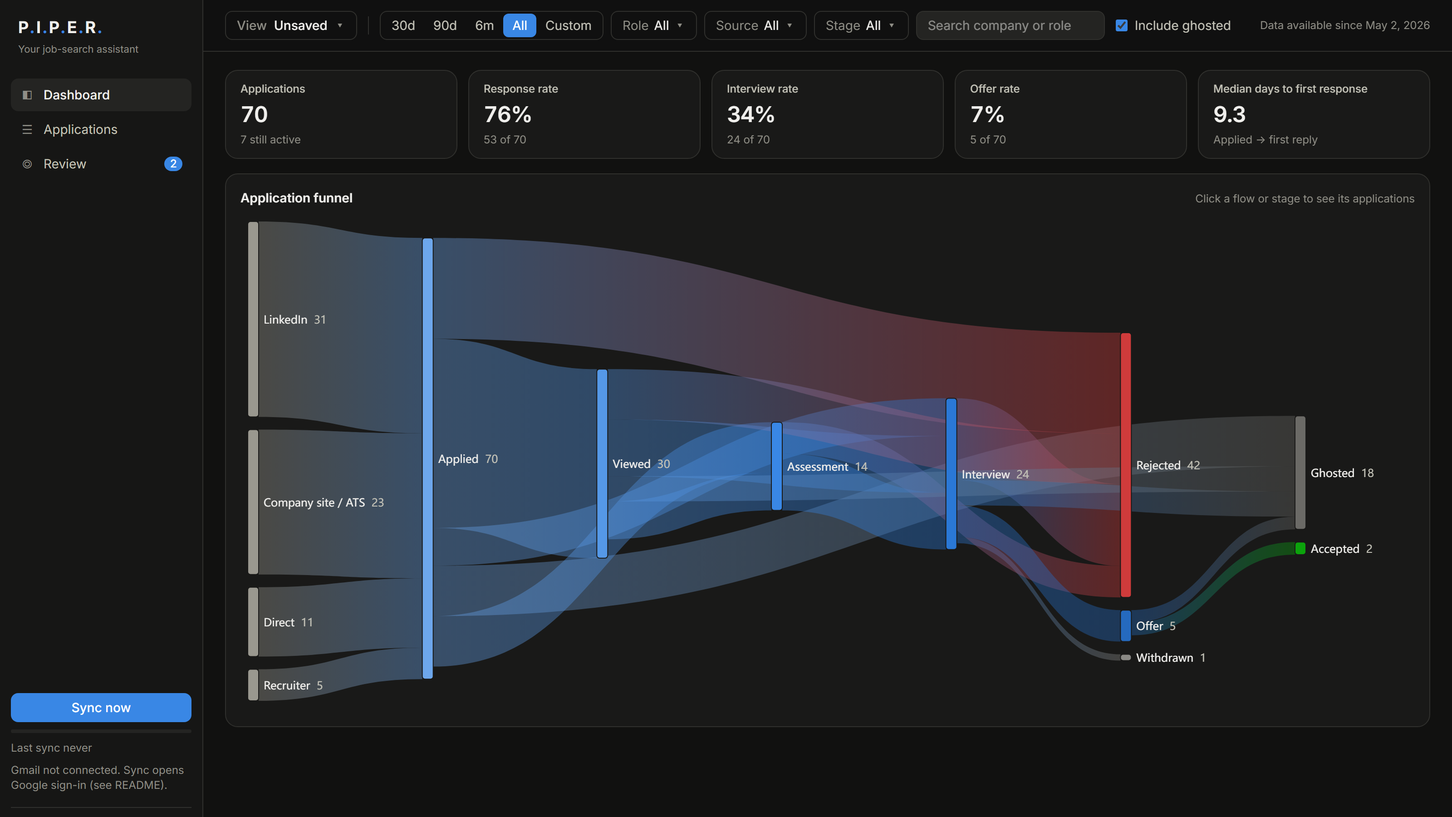
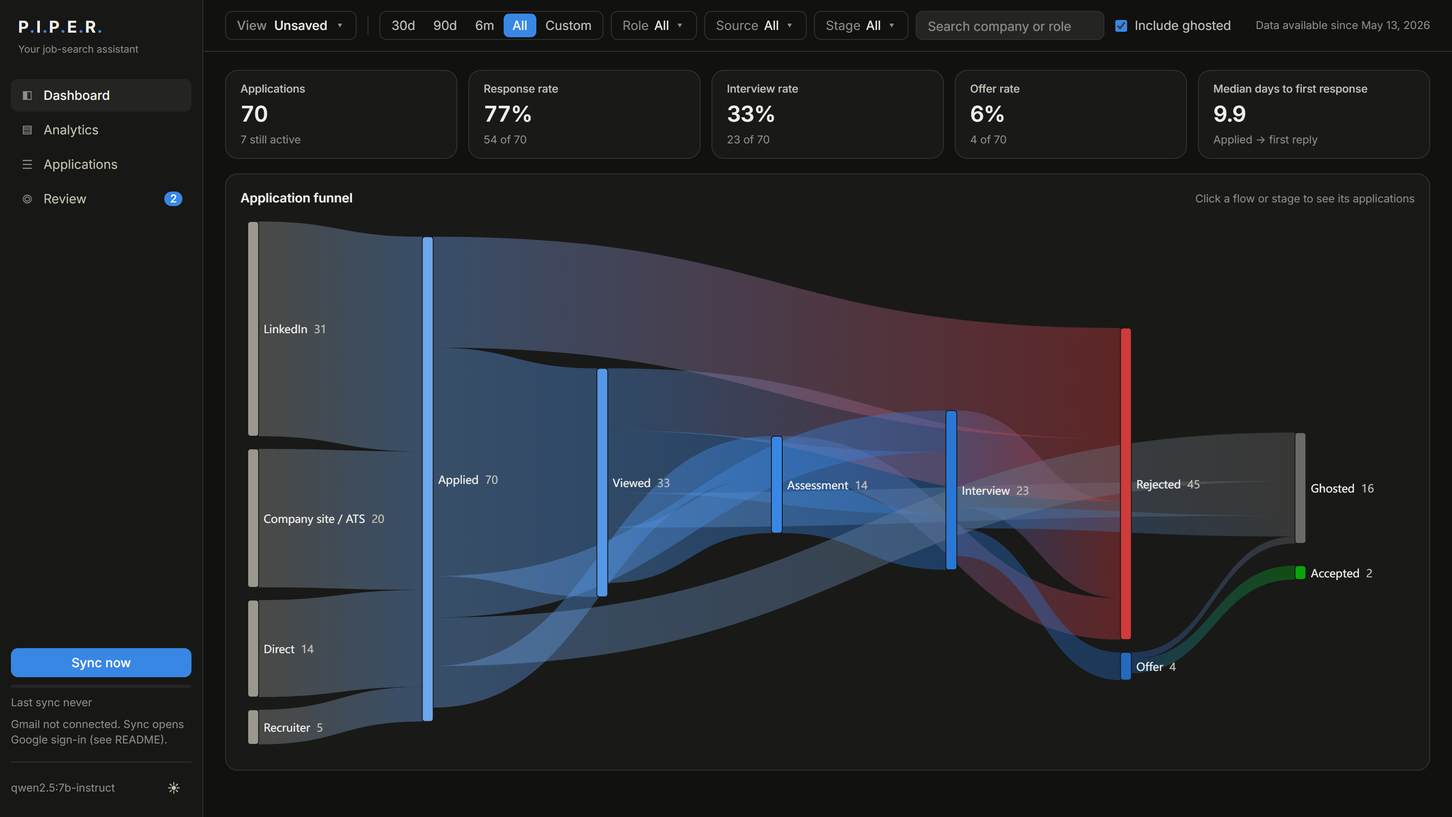
content: add Piper analytics and written-summary design decision, refresh screenshots
Add Decision 6 (the app calculates, the model only describes): the
Insights summary is built from pre-calculated facts, number-checked,
cached, and honest about its wording limits. Add an Analytics row to the
views section and a "summary wording" row to results.

New 2x/3x fictional-data screenshots: analytics overview and conversion
tables. Refresh the dashboard and saved-views images so the sidebar
shows the Analytics tab (saved views is now cropped without the sidebar).

Link the docs folder from the case study the same way as the project
page, and add the Analytics row, status and docs card to the project page.

diff --git a/cases/piper/index.html b/cases/piper/index.html
@@ -22,7 +22,7 @@
       </header>
       <figure data-fade style="--d:0.16" class="fig"><button type="button" class="zoom" aria-label="Enlarge image: The P.I.P.E.R. dashboard" data-caption="Module one, the pipeline: every application is one path from where it came from to where it ended up (sample data)"><img src="../../assets/img/piper/dashboard.png" alt="The P.I.P.E.R. dashboard, showing every application as one path from where it came from to where it ended up" width="3200" height="1800" loading="lazy" decoding="async"></button><figcaption>Module one, the pipeline: every application is one path from where it came from to where it ended up (sample data)</figcaption></figure>
       <p data-fade style="--d:0.24">P.I.P.E.R. is a privacy-first co-pilot for the job search that runs entirely on your own computer. It reads your inbox, drafts your outreach and prepares your applications, and never acts without you. The first module is built and in daily use; the rest are designed or planned.</p>
-      <dl data-fade style="--d:0.32" class="facts"><dt>Role</dt><dd>Product designer and engineer, solo, end to end</dd><dt>Constraints</dt><dd>Fully local, one 8 GB consumer graphics card, read-only access to a personal inbox</dd><dt>Status</dt><dd>Inbox pipeline built and used. Writing fully specified. Résumé, interview prep and applying planned.</dd><dt>Source</dt><dd><a class="w" href="https://github.com/k17n/piper" target="_blank" rel="noopener noreferrer">github.com/k17n/piper</a></dd></dl>
+      <dl data-fade style="--d:0.32" class="facts"><dt>Role</dt><dd>Product designer and engineer, solo, end to end</dd><dt>Constraints</dt><dd>Fully local, one 8 GB consumer graphics card, read-only access to a personal inbox</dd><dt>Status</dt><dd>Inbox pipeline and analytics built, pipeline in daily use. Writing fully specified. Résumé, interview prep and applying planned.</dd><dt>Source</dt><dd><a class="w" href="https://github.com/k17n/piper" target="_blank" rel="noopener noreferrer">github.com/k17n/piper</a></dd></dl>
 
       <h2 data-fade style="--d:0.4">The problem</h2>
       <p data-fade style="--d:0.48">A job search is five jobs at once: knowing where you stand, writing to people, telling your story, preparing for conversations, and applying. Each happens in a different place, and none knows what the others know. I started from my own routine, then talked to a few friends who are job-hunting and read what people ask for on Reddit and X. It was informal, not a research study.</p>
@@ -31,7 +31,7 @@
 
       <h2 data-fade style="--d:0.64">Decision 1: run it on your own machine</h2>
       <p data-fade style="--d:0.64">Tracking applications means reading the inbox, which also holds bank and tax mail, medical messages, password resets and private conversations. A hosted service asks you to trust a company you can’t inspect with all of it: where it is stored, who can read it, and whether it trains models or ends up in a data product. So the model runs on your machine and your mail doesn’t leave it.</p>
-      <dl data-fade style="--d:0.64" class="facts"><dt>Model</dt><dd>Qwen 2.5 7B through Ollama on an 8 GB graphics card. No email text goes to an AI service.</dd><dt>Stored</dt><dd>Short snippets, plus an excerpt for emails in the review queue. Full conversations are fetched live and never saved.</dd><dt>Network</dt><dd>Gmail, read-only, so it can’t send, delete or change a message. One other call: fetching a job posting, only when you click “Fill from link”.</dd><dt>Access</dt><dd>Listens on your machine only. No account, and no server of mine in the middle.</dd></dl>
+      <dl data-fade style="--d:0.64" class="facts"><dt>Model</dt><dd>Qwen 2.5 7B through Ollama on an 8 GB graphics card. No email text goes to an AI service.</dd><dt>Stored</dt><dd>Short snippets, plus an excerpt for emails in the review queue, and short generated summaries made from counts, never from email text. Full conversations are fetched live and never saved.</dd><dt>Network</dt><dd>Gmail, read-only, so it can’t send, delete or change a message. One other call: fetching a job posting, only when you click “Fill from link”.</dd><dt>Access</dt><dd>Listens on your machine only. No account, and no server of mine in the middle.</dd></dl>
       <p data-fade style="--d:0.64"><strong>Why.</strong> A privacy policy is a promise. A program with no route out is a property you can check, and the code is open source under the <a class="w" href="https://github.com/k17n/piper/blob/main/LICENSE" target="_blank" rel="noopener noreferrer">MIT license</a>, so anyone can fork and host it. The search is also often private from a current employer, so a leak costs more than any accuracy a bigger hosted model would add. Local also lets the co-pilot use the whole thread and your real stories, which I would hesitate to ask of someone else’s server.</p>
       <p data-fade style="--d:0.64"><strong>Cost.</strong> Setup is heavier than signing in to a website, and a 7B model is weaker than a hosted one. I treated that as a design input: the product assumes the model will sometimes be wrong, so it shows evidence and asks when unsure (decision 3). Away from your desk, a private network such as <a class="w" href="https://tailscale.com" target="_blank" rel="noopener noreferrer">Tailscale</a> can connect your own devices to your machine, and nothing is exposed unless you set it up.</p>
 
@@ -49,16 +49,22 @@
 
       <h2 data-fade style="--d:0.64">Decision 5: one dataset, several ways to read it</h2>
       <p data-fade style="--d:0.64">I search design, product and VC roles in parallel, so the same data has to answer different questions.</p>
-      <dl data-fade style="--d:0.64" class="facts"><dt>Saved views</dt><dd>Save any mix of date range, role type, source, stage and search as a named view. Switching between “design roles” and “VC roles” is one click, and one view opens by default. Built.</dd><dt>Funnel and table</dt><dd>The funnel shows where applications come from and where they end up, with response, interview and offer rates and median days to a first reply. The table handles individual applications. One set of filters drives both, so the totals agree. Built.</dd><dt>Kanban</dt><dd>Stage columns where dragging a card sets the stage. The funnel answers “how is my search going”; lanes answer “what needs me today”. Coming soon.</dd><dt>One thread</dt><dd>Each application keeps its timeline and full conversation in one place, with every event linking to Gmail. Messages from another application are hidden. Built.</dd><dt>Gaps</dt><dd>Referrals and phone screens never reach email, so they go in through a light manual form, and later emails attach to that entry instead of duplicating it.</dd></dl>
-      <figure data-fade style="--d:0.64" class="fig"><button type="button" class="zoom" aria-label="Enlarge image: Saved views" data-caption="Saved views: a named set of filters, with one opened by default. The role, source and stage filters sit beside it (fictional data)"><img src="../../assets/img/piper/saved-views.png" alt="The saved views menu open over the funnel, listing a default view and a LinkedIn interviews view, with a field to save the current filters" width="3420" height="780" loading="lazy" decoding="async"></button><figcaption>Saved views: a named set of filters, with one opened by default. The role, source and stage filters sit beside it (fictional data)</figcaption></figure>
+      <dl data-fade style="--d:0.64" class="facts"><dt>Saved views</dt><dd>Save any mix of date range, role type, source, stage and search as a named view. Switching between “design roles” and “VC roles” is one click, and one view opens by default. Built.</dd><dt>Funnel and table</dt><dd>The funnel shows where applications come from and where they end up, with response, interview and offer rates and median days to a first reply. The table handles individual applications. One set of filters drives both, so the totals agree. Built.</dd><dt>Analytics</dt><dd>The funnel shows where applications ended up. Analytics shows effort and mix over time: applications per day with a 7-day average and streak, role type, source and seniority mix, an activity heatmap, and response rates by those same groups. It follows the same filters and saved views, so its totals match the other tabs. Built.</dd><dt>Kanban</dt><dd>Stage columns where dragging a card sets the stage. The funnel answers “how is my search going”; lanes answer “what needs me today”. Coming soon.</dd><dt>One thread</dt><dd>Each application keeps its timeline and full conversation in one place, with every event linking to Gmail. Messages from another application are hidden. Built.</dd><dt>Gaps</dt><dd>Referrals and phone screens never reach email, so they go in through a light manual form, and later emails attach to that entry instead of duplicating it.</dd></dl>
+      <figure data-fade style="--d:0.64" class="fig"><button type="button" class="zoom" aria-label="Enlarge image: Saved views" data-caption="Saved views: a named set of filters, with one opened by default. The role, source and stage filters sit beside it (fictional data)"><img src="../../assets/img/piper/saved-views.png" alt="The saved views menu open over the funnel, listing a default view and a LinkedIn interviews view, with a field to save the current filters" width="3540" height="750" loading="lazy" decoding="async"></button><figcaption>Saved views: a named set of filters, with one opened by default. The role, source and stage filters sit beside it (fictional data)</figcaption></figure>
+      <figure data-fade style="--d:0.64" class="fig"><button type="button" class="zoom" aria-label="Enlarge image: The analytics tab" data-caption="Analytics: six summary tiles, a written summary from the local model, and applications per day with a 7-day average. One of several generated summaries (fictional data)"><img src="../../assets/img/piper/analytics-overview.png" alt="The analytics tab: six summary tiles, an Insights card with a two-sentence summary, and a bar chart of applications per day with a moving average line" width="2750" height="1284" loading="lazy" decoding="async"></button><figcaption>Analytics: six summary tiles, a written summary from the local model, and applications per day with a 7-day average. One of several generated summaries (fictional data)</figcaption></figure>
       <figure data-fade style="--d:0.64" class="fig fig--narrow"><button type="button" class="zoom" aria-label="Enlarge image: The company thread" data-caption="The company thread: every email that moved the application forward, above the live conversation, newest first. This is the context the writing module will draw on (fictional data)"><img src="../../assets/img/piper/application-detail.png" alt="An application: its timeline above the live email conversation, newest first" width="1152" height="2030" loading="lazy" decoding="async"></button><figcaption>The company thread: every email that moved the application forward, above the live conversation, newest first. This is the context the writing module will draw on (fictional data)</figcaption></figure>
+
+      <h2 data-fade style="--d:0.64">Decision 6: the app calculates, the model only describes</h2>
+      <dl data-fade style="--d:0.64" class="facts"><dt>Problem</dt><dd>A funnel shows where applications ended up, not how much you apply, to what, or what is working. A written summary is quick to read, but a language model that does its own arithmetic can be confidently wrong, and a 7B model is a weak statistician.</dd><dt>Decision</dt><dd>The backend works out the notable facts: the largest mix shares, the best and worst reply rates among groups of five or more, pace against the previous period, and whether recent weeks are still waiting for replies. The model gets only those as short labelled lines, and every number it writes must appear in them. If one doesn’t, it retries once and then says no summary could be written, without listing the facts instead. With under 10 applications it says there isn’t enough data and calls no model. It describes patterns and never gives advice.</dd><dt>Why</dt><dd>Every claim in the summary can be checked against the tiles and tables beside it, and a wrong figure can’t pass. The summary also costs little to run: it writes itself once the numbers have been still for 10 seconds, never during a sync, and is cached against its facts, so editing a note triggers no model call.</dd><dt>Cost</dt><dd>The check covers digits, not wording. In my test runs on sample data, the 7B model sometimes misread a median as a “longest” time or ranked a lower rate above a higher one. So the card says it is written by the local model, a refresh control writes it again, and the screenshot above is one of several generations.</dd></dl>
+      <p data-fade style="--d:0.64">The same caution applies to the numbers themselves. Every rate shows its count beside it, groups under five applications are muted and marked “small sample”, and the weekly response chart draws the latest two weeks dashed, because replies that haven’t arrived yet look like a decline.</p>
+      <figure data-fade style="--d:0.64" class="fig"><button type="button" class="zoom" aria-label="Enlarge image: What works" data-caption="What works: reply and interview rates with their counts, a small-sample row muted, and recent weeks drawn dashed because replies may still be coming (fictional data)"><img src="../../assets/img/piper/analytics-conversion.png" alt="A table of reply and interview rates by source with counts in brackets and a muted small-sample row, beside a weekly response-rate line whose last weeks are dashed and a time-to-first-reply chart" width="2750" height="1220" loading="lazy" decoding="async"></button><figcaption>What works: reply and interview rates with their counts, a small-sample row muted, and recent weeks drawn dashed because replies may still be coming (fictional data)</figcaption></figure>
 
       <h2 data-fade style="--d:0.64">Results so far</h2>
       <p data-fade style="--d:0.64">This is module one and one user, so it shows whether it works, not market adoption. Testing also found a rejection that went undetected because my search assumed the shape of a job-board message. Each row is marked measured or a target.</p>
-      <dl data-fade style="--d:0.64" class="facts"><dt>Privacy</dt><dd>Zero email text sent to an AI service. Holds by design; the open code lets you check it.</dd><dt>Review load</dt><dd>About 1% of ~390 emails needed a decision. Measured, on my inbox.</dd><dt>Blind spot</dt><dd>Nearly one in four applications are ones a job-board tracker can’t see. Measured, on my inbox.</dd><dt>Accuracy</dt><dd>At least 90% correct on company and stage over labelled samples. A target; a tool to measure it per field is planned.</dd><dt>Speed</dt><dd>About one second per email on a mid-range graphics card.</dd><dt>Setup</dt><dd>Time from download to a first synced dashboard. Not measured yet, and my weakest point.</dd></dl>
+      <dl data-fade style="--d:0.64" class="facts"><dt>Privacy</dt><dd>Zero email text sent to an AI service. Holds by design; the open code lets you check it.</dd><dt>Review load</dt><dd>About 1% of ~390 emails needed a decision. Measured, on my inbox.</dd><dt>Blind spot</dt><dd>Nearly one in four applications are ones a job-board tracker can’t see. Measured, on my inbox.</dd><dt>Accuracy</dt><dd>At least 90% correct on company and stage over labelled samples. A target; a tool to measure it per field is planned.</dd><dt>Speed</dt><dd>About one second per email on a mid-range graphics card.</dd><dt>Summary wording</dt><dd>Not measured. Numbers are checked, wording is not, and misread wording appeared in test runs. I’d track how often readers regenerate it.</dd><dt>Setup</dt><dd>Time from download to a first synced dashboard. Not measured yet, and my weakest point.</dd></dl>
 
       <h2 data-fade style="--d:0.64">Next, and what I’d change</h2>
-      <p data-fade style="--d:0.64">Next is the writing module, specified in the <span class="lk"><a class="ext" href="https://github.com/k17n/piper/blob/main/docs/PRD-writing-studio.md" target="_blank" rel="noopener noreferrer" aria-label="Writing Studio PRD (opens in new tab)"><span class="ext-t">Writing Studio PRD</span><span class="slot" aria-hidden="true"><svg data-icon="arrow" viewBox="0 0 24 24" fill="none" stroke="currentColor" stroke-width="3.6" stroke-linecap="round" stroke-linejoin="round"><path d="M7 7h10v10"/><path d="M7 17 17 7"/></svg></span></a></span>, with the rest on the <span class="lk"><a class="ext" href="https://github.com/k17n/piper/blob/main/docs/PRD.md#12-roadmap" target="_blank" rel="noopener noreferrer" aria-label="roadmap (opens in new tab)"><span class="ext-t">roadmap</span><span class="slot" aria-hidden="true"><svg data-icon="arrow" viewBox="0 0 24 24" fill="none" stroke="currentColor" stroke-width="3.6" stroke-linecap="round" stroke-linejoin="round"><path d="M7 7h10v10"/><path d="M7 17 17 7"/></svg></span></a></span>. The design rule carries over: make invention visible instead of hoping the model doesn’t invent. Every claim about you is tied to a source, anything without one is flagged “claims to check”, each draft must use something specific to the company and to you, and nothing is learned about you without a one-click approval.</p>
+      <p data-fade style="--d:0.64">Next is the writing module. The full requirements, including the product, Analytics and Writing Studio PRDs, are in the <span class="lk"><a class="ext" href="https://github.com/k17n/piper/tree/main/docs" target="_blank" rel="noopener noreferrer" aria-label="Docs folder on GitHub (opens in new tab)"><span class="ext-t">docs</span><span class="slot" aria-hidden="true"><svg data-icon="arrow" viewBox="0 0 24 24" fill="none" stroke="currentColor" stroke-width="3.6" stroke-linecap="round" stroke-linejoin="round"><path d="M7 7h10v10"/><path d="M7 17 17 7"/></svg></span></a></span>. The design rule carries over: make invention visible instead of hoping the model doesn’t invent. Every claim about you is tied to a source, anything without one is flagged “claims to check”, each draft must use something specific to the company and to you, and nothing is learned about you without a one-click approval.</p>
       <p data-fade style="--d:0.64">I’d put it in front of five job-seekers and measure edit distance from draft to final, the share of drafts used, claims flagged per draft, and time to a usable first draft. For trust, I’d track how often people override a stage by hand per 100 applications, and whether they keep their own spreadsheet alongside it.</p>
       <ul data-fade style="--d:0.64">
         <li><strong>The first run.</strong> Setup is too heavy for anyone but a power user. You create your own Google sign-in credentials, and Google limits unverified apps to 100 test users, so distribution is an open question.</li>
@@ -66,7 +72,7 @@
         <li><strong>Accessibility.</strong> I had Claude audit the interface by reading the code and measuring WCAG colour contrast. It found contrast and keyboard gaps that I haven’t fixed yet, and I haven’t tested with a screen reader.</li>
       </ul>
 
-      <section data-fade style="--d:0.64" class="sec"><h2>Explore</h2><div class="cards"><a class="card card--ext" href="https://github.com/k17n/piper/blob/main/docs/PRD-writing-studio.md" target="_blank" rel="noopener noreferrer" aria-label="Writing Studio PRD (opens in new tab)"><span class="card-body"><span class="card-k">Spec · GitHub</span><span class="card-t">Writing Studio PRD<span class="slot" aria-hidden="true"><svg data-icon="arrow" viewBox="0 0 24 24" fill="none" stroke="currentColor" stroke-width="3.6" stroke-linecap="round" stroke-linejoin="round"><path d="M7 7h10v10"/><path d="M7 17 17 7"/></svg></span></span><span class="card-d">The full spec for the writing module: formats, grounding, threads and memory.</span></span></a><a class="card card--ext" href="https://github.com/k17n/piper" target="_blank" rel="noopener noreferrer" aria-label="Source on GitHub (opens in new tab)"><span class="card-body"><span class="card-k">Code · GitHub</span><span class="card-t">k17n/piper<span class="slot" aria-hidden="true"><svg data-icon="arrow" viewBox="0 0 24 24" fill="none" stroke="currentColor" stroke-width="3.6" stroke-linecap="round" stroke-linejoin="round"><path d="M7 7h10v10"/><path d="M7 17 17 7"/></svg></span></span><span class="card-d">The source, and how to run it.</span></span></a></div></section>
+      <section data-fade style="--d:0.64" class="sec"><h2>Explore</h2><div class="cards"><a class="card card--ext" href="https://github.com/k17n/piper" target="_blank" rel="noopener noreferrer" aria-label="Source on GitHub (opens in new tab)"><span class="card-body"><span class="card-k">Code · GitHub</span><span class="card-t">k17n/piper<span class="slot" aria-hidden="true"><svg data-icon="arrow" viewBox="0 0 24 24" fill="none" stroke="currentColor" stroke-width="3.6" stroke-linecap="round" stroke-linejoin="round"><path d="M7 7h10v10"/><path d="M7 17 17 7"/></svg></span></span><span class="card-d">The source, and how to run it.</span></span></a><a class="card card--ext" href="https://github.com/k17n/piper/tree/main/docs" target="_blank" rel="noopener noreferrer" aria-label="Docs folder on GitHub (opens in new tab)"><span class="card-body"><span class="card-k">Specs · GitHub</span><span class="card-t">Docs<span class="slot" aria-hidden="true"><svg data-icon="arrow" viewBox="0 0 24 24" fill="none" stroke="currentColor" stroke-width="3.6" stroke-linecap="round" stroke-linejoin="round"><path d="M7 7h10v10"/><path d="M7 17 17 7"/></svg></span></span><span class="card-d">The product PRD, plus the Analytics and Writing Studio specs.</span></span></a></div></section>
     </div>
 
     <footer data-fade style="--d:0.64">

diff --git a/labs/piper/index.html b/labs/piper/index.html
@@ -22,11 +22,11 @@
       <figure data-fade style="--d:0.16" class="fig"><button type="button" class="zoom" aria-label="Enlarge image: The P.I.P.E.R. dashboard" data-caption="The pipeline: every application as one path from source to outcome (sample data)"><img src="../../assets/img/piper/dashboard.png" alt="The P.I.P.E.R. dashboard, showing every application as one path from where it came from to where it ended up" width="3200" height="1800" loading="lazy" decoding="async"></button><figcaption>The pipeline: every application as one path from source to outcome (sample data)</figcaption></figure>
       <p data-fade style="--d:0.24">P.I.P.E.R. is a job-search co-pilot that runs entirely on your own computer. It reads your inbox, tracks every application, and is designed to draft your outreach and prepare your applications, but never to send or submit anything on its own.</p>
       <p data-fade style="--d:0.32">An inbox holds bank statements, medical and tax mail and private conversations, not just job emails, and I didn’t want to hand that to an online service whose use of it I can’t see. So the model is local, the data stays on your machine, and the app connects to Gmail with read-only permission. The one other call is fetching a job posting, and only when you click “Fill from link”. No email text goes to an AI service, and there is no account to create. You can reach it from your phone through a private network such as <a class="w" href="https://tailscale.com" target="_blank" rel="noopener noreferrer">Tailscale</a>. It’s MIT licensed, so you can fork and host it yourself, and if there’s demand I could offer a paid cloud version with clear privacy and security assurances.</p>
-      <p data-fade style="--d:0.4">A job search is five jobs at once: knowing where you stand, writing to people, telling your story, preparing for conversations, and applying. Each lives in a different tool, or in your head. The idea is one assistant that carries the same context across all of them. The first module is built and I use it daily; the rest are designed or planned, and I’m being careful to say which is which.</p>
-      <dl data-fade style="--d:0.48" class="facts"><dt>Pipeline</dt><dd>Reads your Gmail and tracks every application. Built, in daily use.</dd><dt>Writing</dt><dd>Cover letters and messages, with every claim traced to its source. Fully specified.</dd><dt>Résumés</dt><dd>A tailored version per role. Planned.</dd><dt>Interviews</dt><dd>Likely questions and your best-matching stories. Planned.</dd><dt>Applying</dt><dd>Prepares an application for you to review and send. Planned.</dd></dl>
+      <p data-fade style="--d:0.4">A job search is five jobs at once: knowing where you stand, writing to people, telling your story, preparing for conversations, and applying. Each lives in a different tool, or in your head. The idea is one assistant that carries the same context across all of them. The first module, with its analytics, is built and I use it daily; the rest are designed or planned, and I’m being careful to say which is which.</p>
+      <dl data-fade style="--d:0.48" class="facts"><dt>Pipeline</dt><dd>Reads your Gmail and tracks every application. Built, in daily use.</dd><dt>Analytics</dt><dd>How much you apply, to what, and what is working, plus a short summary written by the local model from calculated numbers only. Built.</dd><dt>Writing</dt><dd>Cover letters and messages, with every claim traced to its source. Fully specified.</dd><dt>Résumés</dt><dd>A tailored version per role. Planned.</dd><dt>Interviews</dt><dd>Likely questions and your best-matching stories. Planned.</dd><dt>Applying</dt><dd>Prepares an application for you to review and send. Planned.</dd></dl>
       <p data-fade style="--d:0.56">A 7B model that fits an 8 GB graphics card is weaker than a hosted one, so when it isn’t sure about an email it asks you instead of guessing. The case study covers why I chose local and what it costs.</p>
-      <dl data-fade style="--d:0.64" class="facts"><dt>Role</dt><dd>Product designer and engineer, solo, end to end</dd><dt>Constraints</dt><dd>Fully local, one 8 GB consumer graphics card, read-only access to a personal inbox</dd><dt>Stack</dt><dd>Python, FastAPI, SQLite, React, TypeScript, Tailwind, ECharts, Ollama running Qwen 2.5 7B, Gmail API</dd><dt>Status</dt><dd>Inbox pipeline built and in use; open source on GitHub</dd></dl>
-      <section data-fade style="--d:0.64" class="sec"><h2>Read more</h2><div class="cards"><a class="card" href="../../cases/piper/" aria-label="Case study"><span class="card-body"><span class="card-k">Case study</span><span class="card-t">Designing an AI co-pilot for the job search<span class="slot" aria-hidden="true"><svg data-icon="arrow" viewBox="0 0 24 24" fill="none" stroke="currentColor" stroke-width="3.2" stroke-linecap="round" stroke-linejoin="round"><path d="M5 12h14"/><path d="m13 6 6 6-6 6"/></svg></span></span><span class="card-d">Why it runs locally, how much a co-pilot should do, and how it earns the right to do more.</span></span></a><a class="card card--ext" href="https://github.com/k17n/piper" target="_blank" rel="noopener noreferrer" aria-label="Source on GitHub (opens in new tab)"><span class="card-body"><span class="card-k">Code · GitHub</span><span class="card-t">k17n/piper<span class="slot" aria-hidden="true"><svg data-icon="arrow" viewBox="0 0 24 24" fill="none" stroke="currentColor" stroke-width="3.6" stroke-linecap="round" stroke-linejoin="round"><path d="M7 7h10v10"/><path d="M7 17 17 7"/></svg></span></span><span class="card-d">The source, and how to run it.</span></span></a><a class="card card--ext" href="https://github.com/k17n/piper/tree/main/docs" target="_blank" rel="noopener noreferrer" aria-label="Docs folder on GitHub (opens in new tab)"><span class="card-body"><span class="card-k">Specs · GitHub</span><span class="card-t">Docs<span class="slot" aria-hidden="true"><svg data-icon="arrow" viewBox="0 0 24 24" fill="none" stroke="currentColor" stroke-width="3.6" stroke-linecap="round" stroke-linejoin="round"><path d="M7 7h10v10"/><path d="M7 17 17 7"/></svg></span></span><span class="card-d">The product PRD and the Writing Studio spec.</span></span></a></div></section>
+      <dl data-fade style="--d:0.64" class="facts"><dt>Role</dt><dd>Product designer and engineer, solo, end to end</dd><dt>Constraints</dt><dd>Fully local, one 8 GB consumer graphics card, read-only access to a personal inbox</dd><dt>Stack</dt><dd>Python, FastAPI, SQLite, React, TypeScript, Tailwind, ECharts, Ollama running Qwen 2.5 7B, Gmail API</dd><dt>Status</dt><dd>Inbox pipeline and analytics built, pipeline in daily use; open source on GitHub</dd></dl>
+      <section data-fade style="--d:0.64" class="sec"><h2>Read more</h2><div class="cards"><a class="card" href="../../cases/piper/" aria-label="Case study"><span class="card-body"><span class="card-k">Case study</span><span class="card-t">Designing an AI co-pilot for the job search<span class="slot" aria-hidden="true"><svg data-icon="arrow" viewBox="0 0 24 24" fill="none" stroke="currentColor" stroke-width="3.2" stroke-linecap="round" stroke-linejoin="round"><path d="M5 12h14"/><path d="m13 6 6 6-6 6"/></svg></span></span><span class="card-d">Why it runs locally, how much a co-pilot should do, and how it earns the right to do more.</span></span></a><a class="card card--ext" href="https://github.com/k17n/piper" target="_blank" rel="noopener noreferrer" aria-label="Source on GitHub (opens in new tab)"><span class="card-body"><span class="card-k">Code · GitHub</span><span class="card-t">k17n/piper<span class="slot" aria-hidden="true"><svg data-icon="arrow" viewBox="0 0 24 24" fill="none" stroke="currentColor" stroke-width="3.6" stroke-linecap="round" stroke-linejoin="round"><path d="M7 7h10v10"/><path d="M7 17 17 7"/></svg></span></span><span class="card-d">The source, and how to run it.</span></span></a><a class="card card--ext" href="https://github.com/k17n/piper/tree/main/docs" target="_blank" rel="noopener noreferrer" aria-label="Docs folder on GitHub (opens in new tab)"><span class="card-body"><span class="card-k">Specs · GitHub</span><span class="card-t">Docs<span class="slot" aria-hidden="true"><svg data-icon="arrow" viewBox="0 0 24 24" fill="none" stroke="currentColor" stroke-width="3.6" stroke-linecap="round" stroke-linejoin="round"><path d="M7 7h10v10"/><path d="M7 17 17 7"/></svg></span></span><span class="card-d">The product PRD, plus the Analytics and Writing Studio specs.</span></span></a></div></section>
     </div>
 
     <footer data-fade style="--d:0.64">
